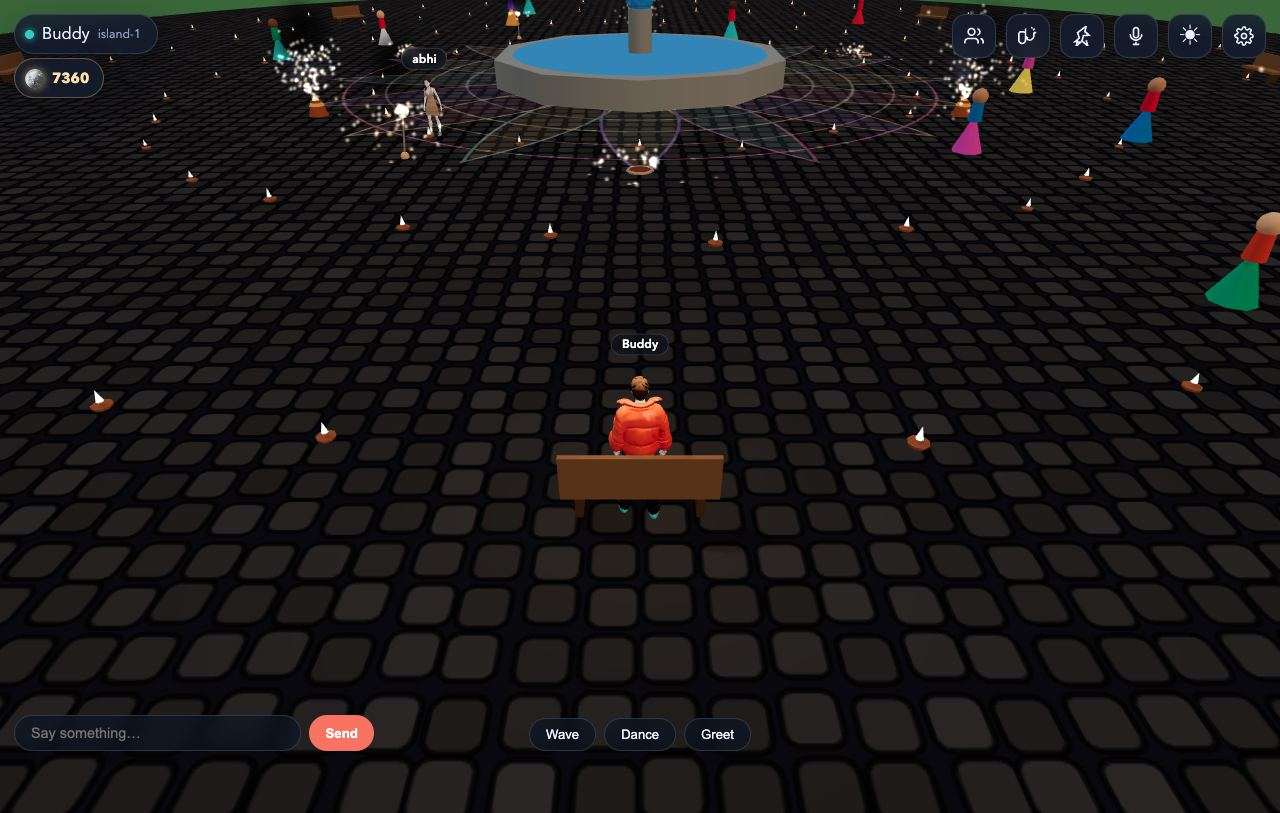
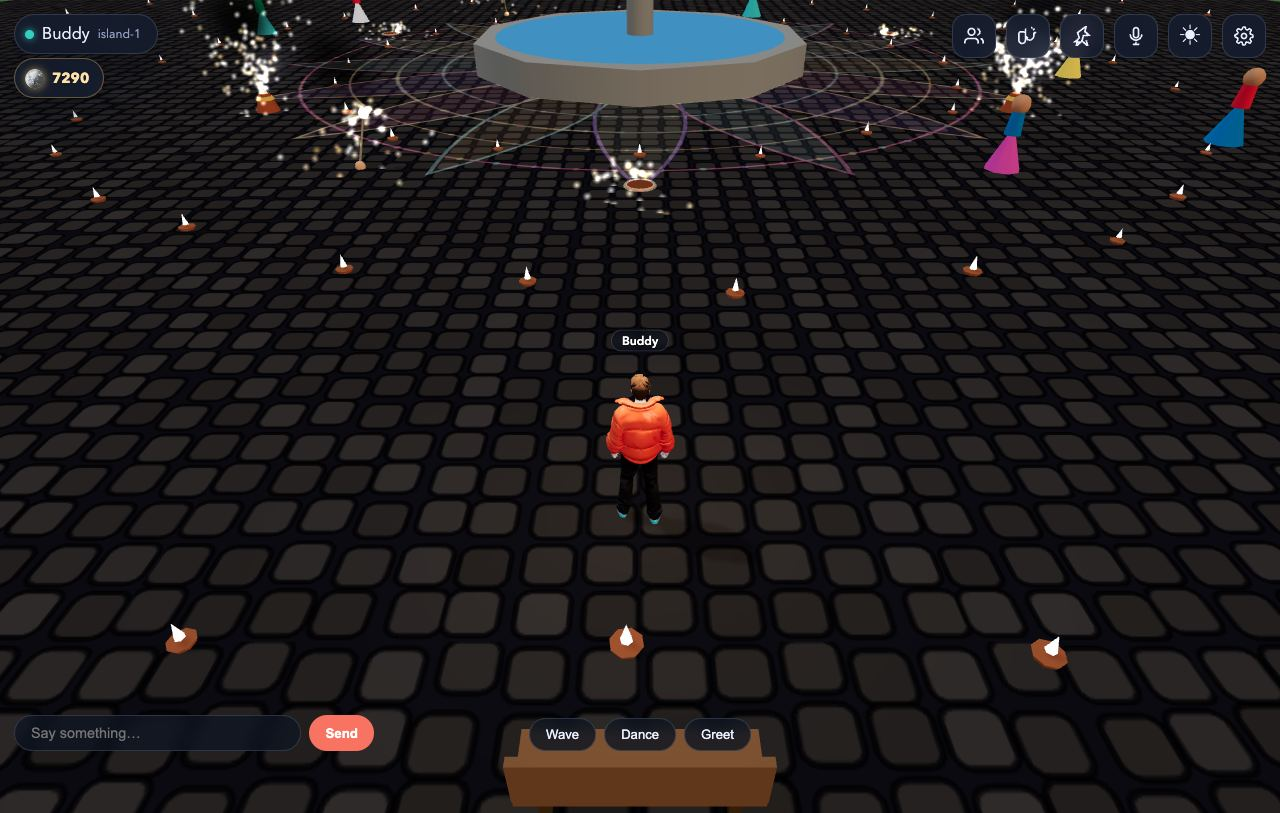
Brighter fireworks: night exposure 1.3 -> 1.5, spark size up, flash lights stronger

diff --git a/client/js/main.js b/client/js/main.js
@@ -57,7 +57,7 @@ class RemotePlayer {
     this.id = data.id;
     this.name = data.name;
     this.rig = new CharacterRig(
-      data.av || { g: 1, b: 0, h: 1, y: 0, o: 0, e: 0, s: 2, p: 3 },
+      data.av || { g: 1, b: 0, h: 1, y: 0, e: 0 },
       data.name,
       opts,
     );
@@ -149,7 +149,7 @@ class Game {
     this.roomType = null;
     this.playing = false;
     this.remotePlayers = new Map();
-    this.previewAv = { b: 0, h: 1, e: 0, s: 2, p: 3 };
+    this.previewAv = { g: 1, b: 0, h: 1, y: 0, e: 0 };
     this.seq = 0;
     this._lastSend = 0;
     this.myHouseId = null;
@@ -208,7 +208,7 @@ class Game {
     // silhouettes.
     this.renderer.outputColorSpace = THREE.SRGBColorSpace;
     this.renderer.toneMapping = THREE.ACESFilmicToneMapping;
-    this.renderer.toneMappingExposure = 1.3;
+    this.renderer.toneMappingExposure = 1.5;
     // real character shadows (the moon light casts; see _enableWorldShadows)
     this.renderer.shadowMap.enabled = true;
     this.renderer.shadowMap.type = THREE.PCFSoftShadowMap;
@@ -337,7 +337,7 @@ class Game {
         l.hemi.intensity = 1.05;
         l.moon.intensity = 0.72;
         l.warmFill.intensity = 0.62;
-        this.renderer.toneMappingExposure = 1.3;
+        this.renderer.toneMappingExposure = 1.5;
         this.scene.background.setHex(0x151a38);
         this.scene.fog.color.setHex(0x292d52);
       }

diff --git a/client/js/festival.js b/client/js/festival.js
@@ -2024,7 +2024,7 @@ export class Festival {
     this.fwPoints = new THREE.Points(
       g,
       new THREE.PointsMaterial({
-        size: 3.6,
+        size: 4.4,
         map: this._softTexture(32, [
           [0, "rgba(255,255,255,1)"],
           [0.4, "rgba(255,255,255,0.5)"],
@@ -2448,9 +2448,9 @@ export class Festival {
     this.fwPoints.geometry.attributes.color.needsUpdate = true;
     // flash lights decay
     this.fwFlash = Math.max(0, this.fwFlash - dt * 3.2);
-    this.fwLight.intensity = this.fwFlash * 2.4;
+    this.fwLight.intensity = this.fwFlash * 3.4;
     this.sparkFlash = Math.max(0, this.sparkFlash - dt * 4.5);
-    this.sparkLight.intensity = this.sparkFlash * 1.6;
+    this.sparkLight.intensity = this.sparkFlash * 2.4;
   }
 
   // ------------------------------------------------------------------- smoke --
@@ -2961,7 +2961,7 @@ export class Festival {
     this.pfxSparkPoints = new THREE.Points(
       g,
       new THREE.PointsMaterial({
-        size: 0.3,
+        size: 0.36,
         map: this._softTexture(32, [
           [0, "rgba(255,255,255,1)"],
           [0.4, "rgba(255,255,255,0.5)"],
